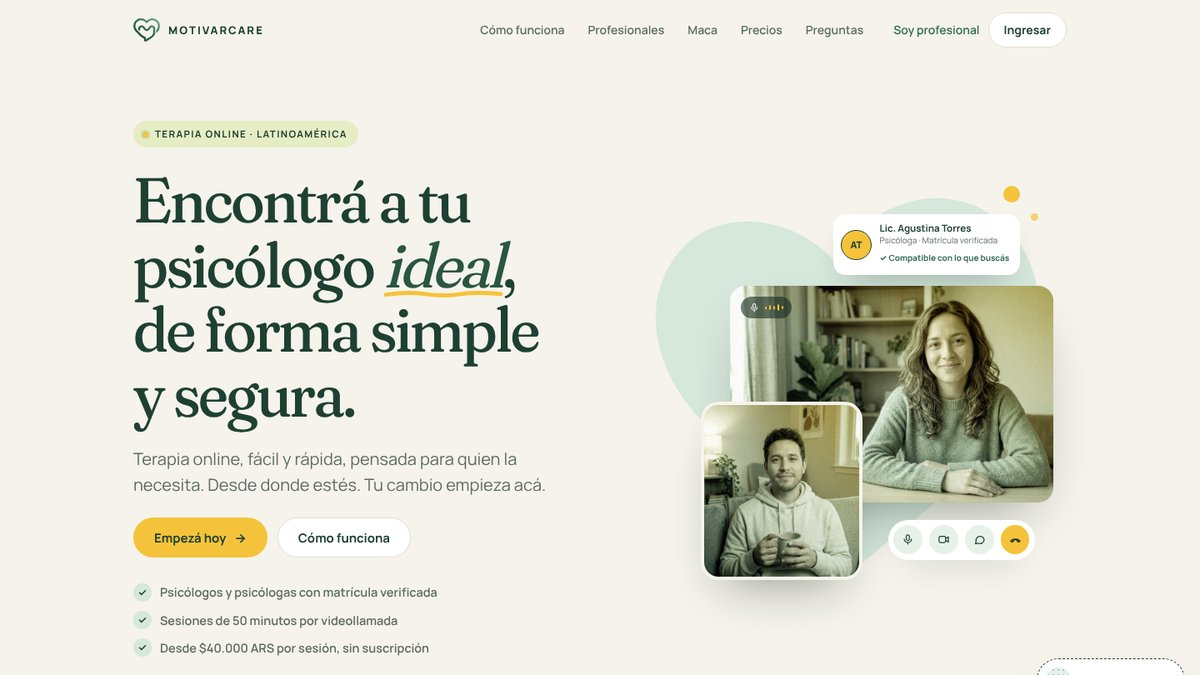
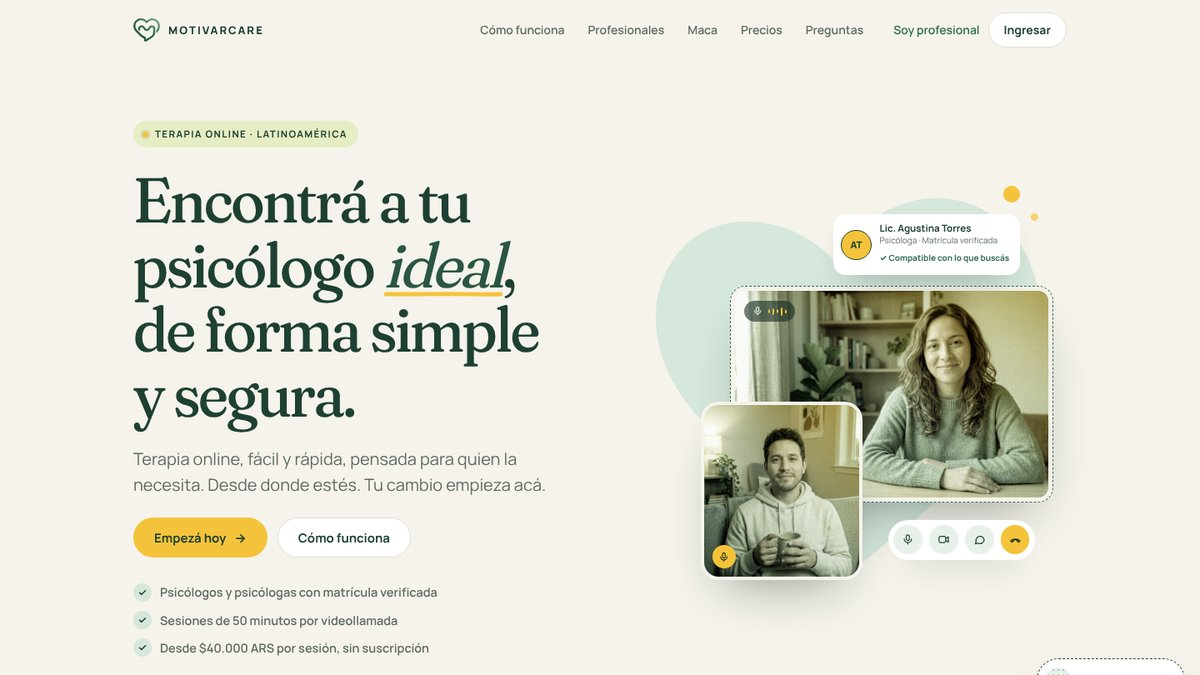
Landing: marco punteado, micrófono del paciente y foto de cierre
Claude-Session: https://claude.ai/code/session_019kx4qU9UBSuouS6WqCQnSV

Changed region(s): [[0.6167, 0.4044, 0.8942, 0.7467], [0.3392, 0.4044, 0.4008, 0.4667], [0.5858, 0.8089, 0.6167, 0.84]]

diff --git a/web/public/landing/css/estilos.css b/web/public/landing/css/estilos.css
@@ -216,13 +216,17 @@ img { max-width: 100%; display: block; }
 .lienzo .p2 { left: calc(var(--u) * 588); top: calc(var(--u) * 44); width: calc(var(--u) * 11); height: calc(var(--u) * 11); opacity: 0.7; }
 .lienzo .ventana { border-radius: calc(var(--u) * 22); box-shadow: var(--sombra-flotante); overflow: hidden; background: var(--salvia); }
 .lienzo .ventana img { display: block; width: 100%; height: 100%; object-fit: cover; }
+.lienzo .grande { border: max(1.5px, calc(var(--u) * 2)) dashed var(--verde-medio); padding: calc(var(--u) * 6); background: var(--crema); }
+.lienzo .grande img { border-radius: calc(var(--u) * 15); }
+.lienzo .chica .silencio { position: absolute; left: calc(var(--u) * 12); bottom: calc(var(--u) * 12); width: calc(var(--u) * 34); height: calc(var(--u) * 34); border-radius: 50%; background: var(--amarillo); color: var(--tinta); display: flex; align-items: center; justify-content: center; }
+.lienzo .chica .silencio svg { width: calc(var(--u) * 16); height: calc(var(--u) * 16); }
 .lienzo .grande { left: calc(var(--u) * 150); top: calc(var(--u) * 150); width: calc(var(--u) * 470); height: calc(var(--u) * 315); }
 .lienzo .chica { left: calc(var(--u) * 108); top: calc(var(--u) * 318); width: calc(var(--u) * 235); height: calc(var(--u) * 260); border: calc(var(--u) * 6) solid var(--crema); border-radius: calc(var(--u) * 26); }
 .lienzo .placeholder { padding: calc(var(--u) * 16); }
 .lienzo .grande.placeholder { padding-left: calc(var(--u) * 190); }
 .lienzo .placeholder b { font-size: max(9px, calc(var(--u) * 11)); }
 .lienzo .placeholder span { font-size: max(10px, calc(var(--u) * 13)); }
-.pastilla-audio { position: absolute; left: calc(var(--u) * 16); top: calc(var(--u) * 16); display: inline-flex; align-items: center; gap: calc(var(--u) * 8); background: rgba(20, 41, 31, 0.6); color: #fff; border-radius: 99px; padding: calc(var(--u) * 8) calc(var(--u) * 12); }
+.pastilla-audio { position: absolute; left: calc(var(--u) * 20); top: calc(var(--u) * 20); display: inline-flex; align-items: center; gap: calc(var(--u) * 8); background: rgba(20, 41, 31, 0.6); color: #fff; border-radius: 99px; padding: calc(var(--u) * 8) calc(var(--u) * 12); }
 .pastilla-audio svg { width: calc(var(--u) * 15); height: calc(var(--u) * 15); }
 .barras { display: inline-flex; gap: calc(var(--u) * 3); align-items: center; height: calc(var(--u) * 14); }
 .barras i { width: calc(var(--u) * 3); border-radius: 2px; background: var(--amarillo); display: block; animation: hablar 1.6s ease-in-out infinite; }
@@ -442,8 +446,8 @@ img { max-width: 100%; display: block; }
 .cierre-visual { position: relative; width: 100%; max-width: 460px; justify-self: center; aspect-ratio: 460 / 520; }
 .cierre-visual > * { position: absolute; }
 .corazon-cierre { left: -12%; top: -6%; width: 118%; height: auto; transform: rotate(6deg); }
-.foto-cierre { left: 18%; top: 8%; width: 64%; aspect-ratio: 760 / 940; border-radius: var(--radio-grande); box-shadow: 0 30px 60px -24px rgba(0, 0, 0, 0.45); }
-.sesiones-cierre { right: 0; bottom: 6%; width: 40%; height: auto; background: var(--crema); border-radius: 99px; padding: 6px 10px; box-shadow: 0 18px 40px -20px rgba(0, 0, 0, 0.5); }
+.foto-cierre { left: 18%; top: 8%; width: 64%; aspect-ratio: 760 / 940; border-radius: var(--radio-grande); overflow: hidden; box-shadow: 0 30px 60px -24px rgba(0, 0, 0, 0.45); }
+.foto-cierre img { display: block; width: 100%; height: 100%; object-fit: cover; }
 .punto-cierre { border-radius: 50%; background: var(--amarillo); }
 .punto-cierre.p1 { left: 8%; top: 4%; width: 22px; height: 22px; }
 .punto-cierre.p2 { left: 2%; top: 13%; width: 10px; height: 10px; opacity: 0.7; }
@@ -473,10 +477,8 @@ img { max-width: 100%; display: block; }
 .js .chat-animado .msg, .js .chat-animado .escribiendo { opacity: 0; transform: translateY(6px); transition: opacity 0.4s ease, transform 0.4s var(--entrada); }
 .js .chat-animado .msg.mostrar { opacity: 1; transform: none; }
 .js .chat-animado .escribiendo.mostrar { opacity: 1; transform: none; }
-.latido { transform-box: fill-box; transform-origin: center; animation: latir 2.6s ease-in-out infinite; }
 @keyframes hablar { 0%, 100% { transform: scaleY(1); } 50% { transform: scaleY(0.55); } }
 @keyframes tipear { 0%, 100% { opacity: 0.35; transform: none; } 50% { opacity: 1; transform: translateY(-3px); } }
-@keyframes latir { 0%, 100% { transform: scale(1); } 18% { transform: scale(1.07); } 36% { transform: scale(0.99); } 54% { transform: scale(1.04); } 75% { transform: scale(1); } }
 
 @media (prefers-reduced-motion: reduce) {
   html { scroll-behavior: auto; }

diff --git a/web/public/landing/index.html b/web/public/landing/index.html
@@ -95,6 +95,7 @@
             </div>
             <div class="ventana chica">
               <img src="img/hero/paciente.jpg" alt="" width="470" height="520">
+              <span class="silencio"><svg><use href="#i-mic"/></svg></span>
             </div>
             <div class="controles"><span><svg><use href="#i-mic"/></svg></span><span><svg><use href="#i-cam"/></svg></span><span><svg><use href="#i-chat"/></svg></span><span class="colgar"><svg><use href="#i-colgar"/></svg></span></div>
             <div class="perfil-ejemplo">
@@ -415,16 +416,7 @@
         </div>
         <div class="cierre-visual" aria-hidden="true">
           <svg class="corazon-cierre" viewBox="0 0 600 560"><path d="M300 140 C 250 70, 150 50, 95 105 C 30 170, 45 280, 130 360 L 236 452 C 246 461, 250 470, 250 482 L 250 530 C 250 547, 266 556, 281 547 L 340 508 C 430 452, 565 350, 562 212 C 560 120, 490 60, 410 70 C 362 76, 326 104, 300 140 Z" fill="#2A5543"/></svg>
-          <div class="placeholder foto-cierre">
-            <b>Placeholder</b>
-            <span>Foto: escena de cierre. Paciente en su casa, cerrando la laptop al terminar la sesión, con una taza y una libreta (tratamiento de marca, vertical 760 × 940)</span>
-          </div>
-          <svg class="sesiones-cierre" viewBox="0 0 180 70">
-            <circle cx="40" cy="35" r="26" fill="none" stroke="#1E4033" stroke-opacity=".7" stroke-width="1.6" stroke-dasharray="3 4"/>
-            <circle cx="32" cy="35" r="6" fill="#1E4033"/><circle cx="49" cy="35" r="8" fill="#9FC9AE" stroke="#1E4033" stroke-width="1.8"/>
-            <circle class="latido" cx="125" cy="35" r="26" fill="#D6E7DC" stroke="#1E4033" stroke-width="1.8"/>
-            <circle cx="117" cy="35" r="6" fill="#1E4033"/><circle cx="134" cy="35" r="8" fill="#F5C33B" stroke="#1E4033" stroke-width="1.8"/>
-          </svg>
+          <div class="foto-cierre"><img src="img/cierre.jpg" alt="" width="760" height="940"></div>
           <span class="punto-cierre p1"></span><span class="punto-cierre p2"></span>
         </div>
       </div>

diff --git a/08-landing-page/README.md b/08-landing-page/README.md
@@ -6,7 +6,7 @@ resumen: "Contenidos de la landing page pública de MotivarCare (www.motivarcare
 actualizado: 2026-10-19
 proximos_pasos:
   - "Revisar la propuesta y ajustar textos y secciones."
-  - "Completar los placeholders que quedan: equipo de MotivarCare y foto de cierre."
+  - "Completar el placeholder que queda: equipo de MotivarCare."
   - "Confirmar con el equipo los datos nuevos (verificación de perfiles, países, tratamiento de las reseñas)."
 iniciativas:
   - titulo: Propuesta de nueva landing page
@@ -45,7 +45,7 @@ Primera versión de una landing renovada, armada con el design system de Motivar
 | Sección | Qué cambia |
 |---|---|
 | Encabezado | Se reordena la navegación (Cómo funciona, Profesionales, Maca, Precios, Preguntas) y se suma el acceso "Soy profesional". |
-| Hero | Mismo mensaje, en voseo, con "ideal" destacado. Se agregan un segundo botón ("Cómo funciona") y tres garantías concretas debajo. La tarjeta de perfil muestra a la Lic. Agustina Torres, sin número de matrícula. La composición de videollamada sobre el corazón tiene una foto de la profesional y una del paciente, con el tratamiento de color de la marca; la ventana del paciente es más grande que en la primera versión. |
+| Hero | Mismo mensaje, en voseo, con "ideal" destacado. Se agregan un segundo botón ("Cómo funciona") y tres garantías concretas debajo. La tarjeta de perfil muestra a la Lic. Agustina Torres, sin número de matrícula. La composición de videollamada sobre el corazón tiene una foto de la profesional y una del paciente, con el tratamiento de color de la marca; la ventana de la profesional tiene un marco punteado y la del paciente, un poco más grande, lleva el ícono amarillo del micrófono, como en la portada del deck. |
 | **Para quién es** (nueva) | "La terapia también es para lo que te pasa en el día a día." Un texto que invita a empezar sin tener todo claro y una caja con temas frecuentes de consulta (ansiedad, dormir mal, duelo, vínculos, primera vez en terapia, etc.). |
 | Por qué MotivarCare | Cuatro razones, con textos moderados: desde donde estés, conexión en minutos, profesionales de toda la región y acompañamiento. Se quita la tarjeta de inteligencia artificial (la IA queda solo en la sección de Maca). Toma el título "Pensado para empezar sin fricción", que antes estaba en un bloque aparte. Las banderas pasan a chips de texto y se suma un mapa de puntos. El chat de ejemplo queda en voseo y se anima mensaje por mensaje. |
 | Psicólogos certificados | Pasa a explicar **cómo** se verifica: cada profesional carga matrícula, título y experiencia, y el equipo los revisa antes de publicar el perfil. Se acompaña con una ficha de revisión. |
@@ -56,14 +56,13 @@ Primera versión de una landing renovada, armada con el design system de Motivar
 | Reseñas | Se muestran todas juntas en una grilla en lugar de un carrusel, sin editar, con la aclaración "Reseñas publicadas por pacientes en la plataforma, sin editar". Cada una lleva la foto de perfil del sitio actual, con el tratamiento de color de la marca para unificarlas (`landing/img/resenas/`). Se saca el "hace 163 días". |
 | Preguntas frecuentes | Las seis en voseo, más dos nuevas: "¿Los profesionales tienen matrícula?" y "¿Qué hago si estoy en crisis?" (sin destacar, al final de la lista). |
 | **Para profesionales** (nueva) | "¿Sos psicólogo o psicóloga?", con los tres pasos para sumarse y un botón al portal de profesionales. |
-| **Cierre** (nueva) | Banda verde bosque en dos columnas: a la izquierda "Tu cambio empieza acá.", un texto corto y los botones "Empezá hoy" y "Tengo dudas"; a la derecha, la foto de la escena de cierre sobre el corazón, con el par de sesiones (reservada y en curso). |
+| **Cierre** (nueva) | Banda verde bosque en dos columnas: a la izquierda "Tu cambio empieza acá.", un texto corto y los botones "Empezá hoy" y "Tengo dudas"; a la derecha, sobre el corazón, la misma foto de la escena de cierre que usa el deck. |
 | Pie | Mismos enlaces, ordenados en columnas (portales e información). |
 | Botón flotante | "Escribile a Maca", con borde punteado. |
 
 ### Placeholders pendientes
 
 - Quiénes somos: foto o retratos del equipo, y un texto sobre quiénes lo integran y qué profesionales asesoran a MotivarCare.
-- Cierre: foto de la escena de cierre (paciente cerrando la laptop al terminar la sesión), vertical, con el tratamiento de marca. Puede ser la que ya está en el design system.
 
 ### A confirmar con el equipo
 
